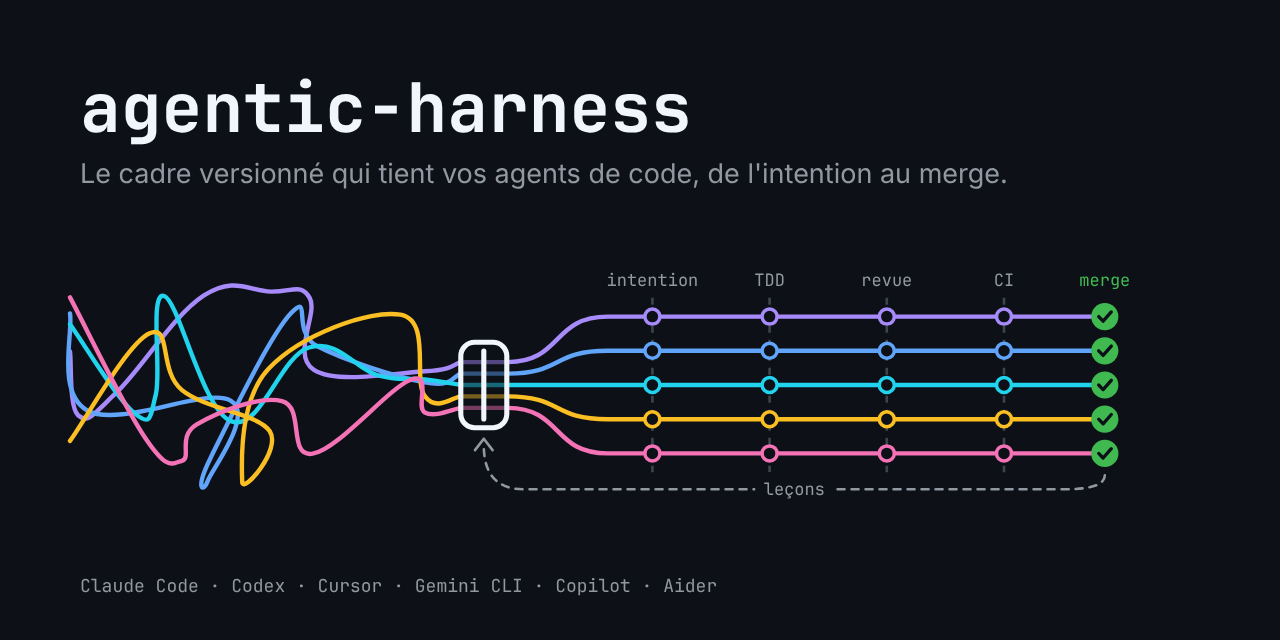
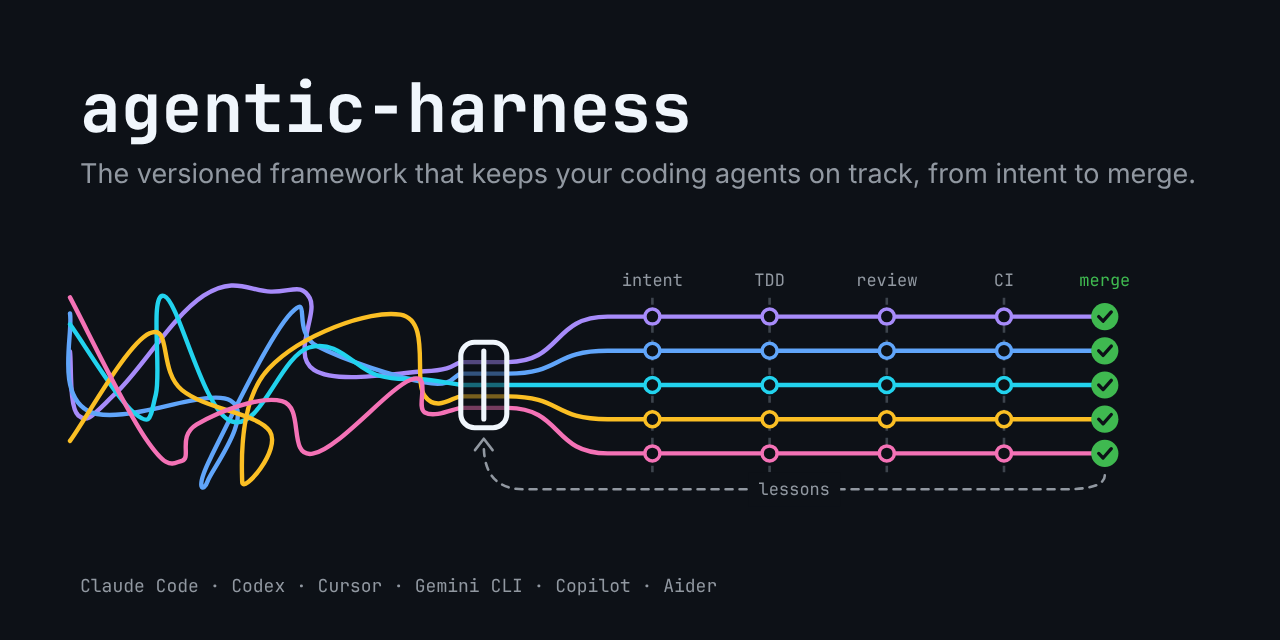
Identité du dépôt : description et topics obligatoires, visuels en anglais
La règle ne couvrait que les images ; un dépôt se reconnaît aussi à sa description et à ses topics.

- CONVENTIONS §Identité du dépôt (ex « Identité visuelle ») : description (une phrase), topics (5 à 10,
  format GitHub sourcé), bannière, social preview ; texte des images en anglais. Relayé dans STEWARDS §2,
  l'agent doc-steward, ADOPTION et le README.
- repo-settings.py : identity_gaps() avertit sans bloquer (description absente ou restée celle du
  gabarit, topics absents ou mal formés) ; la description du gabarit n'est plus envoyée à GitHub.
- check-framework.py : le cadre contrôle sa propre description et ses topics.
- Bannière et social preview : accroche et jalons en anglais.

Tests vus rouges puis verts (test_repo_settings, test_check_framework).

Claude-Session: https://claude.ai/code/session_014QH2CHDMpD5XhpEofb1Z2H

diff --git a/scripts/repo-settings.py b/scripts/repo-settings.py
@@ -5,8 +5,10 @@ Une session cloud ne peut pas modifier les réglages d'un dépôt (LESSONS L56) 
 merge, le workflow repo-settings.yml lance ce script avec un jeton d'administration (secret REPO_ADMIN_TOKEN).
 
 Sections (toutes facultatives ; une section absente n'est pas touchée) :
-  "repository" : champs de PATCH /repos/{owner}/{repo} listés dans REPO_FIELDS ;
+  "repository" : champs de PATCH /repos/{owner}/{repo} listés dans REPO_FIELDS ; une description restée celle du
+                 gabarit (`<…>`) n'est pas envoyée ;
   "topics"     : liste complète des topics (remplace l'existante) ;
+  Description ou topics manquants ou non valides : avertissement, sans bloquer (CONVENTIONS.md §Identité du dépôt).
   "rulesets"   : rulesets gérés, identifiés par leur `name` (créés ou mis à jour ; un ruleset absent du fichier n'est
                  jamais supprimé : on le retire à la main, c'est voulu).
 Usage : repo-settings.py --repo owner/nom [--file .github/repo-settings.json] [--apply]
@@ -16,6 +18,7 @@ Jeton : variable GH_TOKEN (fine-grained, « Administration: write » sur le dép
 import argparse
 import json
 import os
+import re
 import sys
 import urllib.error
 import urllib.request
@@ -26,6 +29,32 @@ REPO_FIELDS = {"description", "homepage", "has_issues", "has_projects", "has_wik
                "squash_merge_commit_title", "squash_merge_commit_message"}
 RULESET_KEYS = ("name", "target", "enforcement", "conditions", "rules", "bypass_actors")
 API = "https://api.github.com"
+# Règles de GitHub pour un topic : minuscules, chiffres, tirets, 50 caractères au plus, 20 topics au plus par dépôt
+# (https://docs.github.com/en/repositories/managing-your-repositorys-settings-and-features/customizing-your-repository/classifying-your-repository-with-topics)
+TOPIC = re.compile(r"^[a-z0-9][a-z0-9-]{0,49}$")
+MAX_TOPICS = 20
+
+
+def _placeholder(text):
+    """Vrai pour une description vide ou restée celle du gabarit (`<une phrase : …>`)."""
+    text = (text or "").strip()
+    return not text or (text.startswith("<") and text.endswith(">"))
+
+
+def identity_gaps(desired):
+    """Ce qui manque pour que le dépôt dise ce qu'il est (CONVENTIONS.md §Identité du dépôt) ; fonction pure."""
+    gaps = []
+    if _placeholder((desired.get("repository") or {}).get("description")):
+        gaps.append("description absente ou restée celle du gabarit : une phrase, ce que fait le projet et pour qui")
+    topics = desired.get("topics") or []
+    bad = [t for t in topics if not isinstance(t, str) or not TOPIC.match(t)]
+    if not topics:
+        gaps.append("topics absents : 5 à 10 mots-clés (domaine, technologie, usage)")
+    elif bad:
+        gaps.append(f"topics non valides {bad} : minuscules, chiffres et tirets, 50 caractères au plus")
+    elif len(set(topics)) > MAX_TOPICS:
+        gaps.append(f"topics trop nombreux ({len(set(topics))}) : {MAX_TOPICS} au plus")
+    return gaps
 
 
 def _covers(actual, wanted):
@@ -62,7 +91,8 @@ def plan(desired, current):
         unknown = sorted(set(repo) - REPO_FIELDS)
         if unknown:
             raise ValueError(f"champs de dépôt non gérés : {unknown} (permis : {sorted(REPO_FIELDS)})")
-        fields = {k: v for k, v in repo.items() if current.get("repository", {}).get(k) != v}
+        fields = {k: v for k, v in repo.items() if current.get("repository", {}).get(k) != v
+                  and not (k == "description" and _placeholder(v))}  # le texte du gabarit ne part jamais sur GitHub
         if fields:
             actions.append({"op": "patch-repo", "fields": fields})
     if desired.get("topics") is not None:
@@ -141,6 +171,8 @@ def main():
         raise SystemExit("✘ GH_TOKEN absent (secret REPO_ADMIN_TOKEN : jeton « Administration: write » sur le dépôt)")
     with open(a.file, encoding="utf-8") as f:
         desired = json.load(f)
+    for gap in identity_gaps(desired):
+        print(f"::warning file={a.file}::{gap}")
     http = github(token)
     actions = plan(desired, read_current(a.repo, http))
     for act in actions:

diff --git a/scripts/tests/test_repo_settings.py b/scripts/tests/test_repo_settings.py
@@ -29,6 +29,32 @@ class PlanTests(unittest.TestCase):
         actions = rs.plan({"topics": ["claude-code", "agentic"]}, {"repository": {}, "topics": ["old"], "rulesets": []})
         self.assertEqual(actions, [{"op": "put-topics", "names": ["agentic", "claude-code"]}])
 
+    def test_placeholder_description_is_never_sent(self):
+        desired = {"repository": {"description": "<une phrase : ce que fait le projet, pour qui>", "has_wiki": False}}
+        actions = rs.plan(desired, {"repository": {"description": "", "has_wiki": True}, "topics": [], "rulesets": []})
+        self.assertEqual(actions, [{"op": "patch-repo", "fields": {"has_wiki": False}}])
+
+    def test_identity_gaps_none_when_described_and_tagged(self):
+        self.assertEqual(rs.identity_gaps({"repository": {"description": "Un cadre."}, "topics": ["ai-agents", "tdd"]}), [])
+
+    def test_identity_gaps_on_missing_or_placeholder_description(self):
+        for repo in ({}, {"description": ""}, {"description": "<une phrase>"}):
+            gaps = rs.identity_gaps({"repository": repo, "topics": ["tdd"]})
+            self.assertEqual(len(gaps), 1, repo)
+            self.assertIn("description", gaps[0])
+
+    def test_identity_gaps_on_empty_or_invalid_topics(self):
+        ok = {"description": "Un cadre."}
+        self.assertIn("topics", rs.identity_gaps({"repository": ok, "topics": []})[0])
+        self.assertIn("topics", rs.identity_gaps({"repository": ok})[0])
+        for bad in ("Claude Code", "CI", "-tdd", "x" * 51):
+            self.assertIn(bad, rs.identity_gaps({"repository": ok, "topics": ["tdd", bad]})[0])
+        self.assertIn("20", rs.identity_gaps({"repository": ok, "topics": [f"t{i}" for i in range(21)]})[0])
+
+    def test_shipped_settings_have_description_and_topics(self):
+        shipped = json.loads((ROOT / ".github/repo-settings.json").read_text(encoding="utf-8"))
+        self.assertEqual(rs.identity_gaps(shipped), [])
+
     def test_ruleset_created_then_updated_by_name(self):
         created = rs.plan({"rulesets": [RULESET]}, {"repository": {}, "topics": [], "rulesets": []})
         self.assertEqual([a["op"] for a in created], ["create-ruleset"])

diff --git a/scripts/check-framework.py b/scripts/check-framework.py
@@ -9,6 +9,7 @@
 Usage : check-framework.py [--root <dépôt>]   (sort en 1 au moindre écart, liste tous les écarts)
 """
 import argparse
+import importlib.util
 import json
 import pathlib
 import re
@@ -119,7 +120,13 @@ def check(root):
                         errors.append(f".github/repo-settings.json : contrôle requis « {chk['context']} » absent des "
                                       f"jobs de .github/workflows ({sorted(job_names)})")
 
-    # Identité visuelle du dépôt (CONVENTIONS.md §Identité visuelle) : le cadre s'applique sa propre règle
+    # Identité du dépôt (CONVENTIONS.md §Identité du dépôt) : le cadre s'applique sa propre règle
+    if settings.is_file():
+        spec = importlib.util.spec_from_file_location("repo_settings", root / "scripts/repo-settings.py")
+        rs = importlib.util.module_from_spec(spec)
+        spec.loader.exec_module(rs)
+        errors += [f".github/repo-settings.json : {gap}"
+                   for gap in rs.identity_gaps(json.loads(settings.read_text(encoding="utf-8")))]
     banner, social = root / "docs/assets/banner.svg", root / "docs/assets/social-preview.png"
     if not banner.is_file():
         errors.append("docs/assets/banner.svg : bannière du README introuvable")

diff --git a/scripts/tests/test_check_framework.py b/scripts/tests/test_check_framework.py
@@ -50,6 +50,12 @@ class CheckFrameworkTests(unittest.TestCase):
         p.write_bytes(bytes(data))
         self.assertIn("1280×640", run(self.tmp).stdout)
 
+    def test_repository_needs_description_and_topics(self):
+        p = self.tmp / ".github/repo-settings.json"
+        p.write_text(p.read_text().replace('"topics": [', '"topics_": ['))
+        out = run(self.tmp).stdout
+        self.assertIn("topics", out)
+
     def test_agent_name_must_match_file(self):
         p = self.tmp / "plugins/harness/agents/issue-steward.md"
         p.write_text(p.read_text().replace("name: issue-steward", "name: autre"))

diff --git a/docs/CONVENTIONS.md b/docs/CONVENTIONS.md
@@ -117,9 +117,20 @@ les sections `### Ledger` des PR par le steward, ou rédigées depuis leurs desc
   accepté ne se réécrit pas : il est remplacé par un autre.
 - Les instructions personnelles d'un opérateur vont dans un `CLAUDE.local.md` non versionné, pas dans le dépôt.
 
-## Identité visuelle du dépôt
-Tout dépôt qui suit le cadre porte **deux images** qui disent son intention au premier regard (ce que le projet fait
-et pour qui, pas un logo décoratif ni une capture) :
+## Identité du dépôt
+Tout dépôt qui suit le cadre dit ce qu'il est sans qu'on ouvre un fichier : une **description**, des **topics**, une
+**bannière** et une **social preview**.
+
+| Élément | Où il vit | Règle |
+|---|---|---|
+| **Description** | `.github/repo-settings.json` → `repository.description` | une phrase : ce que fait le projet, pour qui ; pas le texte du gabarit, pas une liste de fonctionnalités ; tenue vraie quand le périmètre change |
+| **Topics** | `.github/repo-settings.json` → `topics` | 5 à 10 mots-clés qu'un visiteur chercherait : domaine, technologie, usage ; minuscules, chiffres et tirets, 50 caractères au plus, 20 topics au plus ([doc GitHub](https://docs.github.com/en/repositories/managing-your-repositorys-settings-and-features/customizing-your-repository/classifying-your-repository-with-topics)) ; préférer un topic déjà répandu à un mot inventé |
+
+Les deux se modifient par PR et s'appliquent au merge ([ADOPTION](ADOPTION.md) §Réglages du dépôt « as code ») ;
+`repo-settings.py` avertit s'ils manquent ou sont mal formés, et n'envoie jamais la description du gabarit.
+
+Les **deux images** disent l'intention au premier regard (ce que le projet fait et pour qui, pas un logo décoratif
+ni une capture) :
 
 | Image | Fichier | Format | Où elle sert |
 |---|---|---|---|
@@ -127,13 +138,14 @@ et pour qui, pas un logo décoratif ni une capture) :
 | **Social preview** | `docs/assets/social-preview.png`, sa source à côté (`.svg` ou autre) | PNG **1280×640**, moins de 1 Mo, l'essentiel à plus de 40 px des bords | aperçu du lien du dépôt (réseaux, messageries) |
 
 - Les deux partagent le même motif et le même nom de projet ; une phrase d'intention au plus, pas de liste de
-  fonctionnalités. Aucun secret, aucune donnée personnelle, aucune marque tierce.
+  fonctionnalités. Leur texte est en **anglais** (un aperçu de lien circule hors du public du projet), sauf projet
+  dont le public est seulement francophone. Aucun secret, aucune donnée personnelle, aucune marque tierce.
 - La social preview **se dépose à la main** : dépôt → Settings → General → Social preview
   ([doc GitHub](https://docs.github.com/en/repositories/managing-your-repositorys-settings-and-features/customizing-your-repository/customizing-your-repositorys-social-media-preview),
   qui donne aussi la taille et le poids). C'est un réglage du dépôt : l'agent prépare le fichier et le signale,
   l'opérateur le dépose (ESSENTIEL §Garde-fous). `repo-settings.py` ne le couvre pas.
-- Elles changent quand l'intention du projet change, pas à chaque version. Le doc steward vérifie leur présence
-  ([STEWARDS](STEWARDS.md) §2) ; images absentes → une issue.
+- Elles changent quand l'intention du projet change, pas à chaque version. Le doc steward vérifie les quatre
+  éléments ([STEWARDS](STEWARDS.md) §2) ; absent ou périmé → une issue.
 
 ## Secrets
 Aucun secret dans le dépôt. Secrets de CI dans les secrets GitHub ; en local, dans des fichiers de configuration

diff --git a/README.md b/README.md
@@ -1,6 +1,6 @@
 # agentic-harness
 
-![agentic-harness : des trajectoires d'agents emmêlées passent dans la boucle du harnais et ressortent en voies tenues, jalon après jalon (intention, TDD, revue adversariale, CI), jusqu'au merge ; les leçons reviennent au harnais](docs/assets/banner.svg)
+![agentic-harness, « the versioned framework that keeps your coding agents on track, from intent to merge » : des trajectoires d'agents emmêlées passent dans la boucle du harnais et ressortent en voies tenues, jalon après jalon (intention, TDD, revue adversariale, CI), jusqu'au merge ; les leçons reviennent au harnais](docs/assets/banner.svg)
 
 > Un harnais versionné et ouvert pour développer avec des agents de code : intention et TDD, issues → lots → PR,
 > revues adversariales, conformité branchable, stewards, FinOps et tableau de bord du flux. Pour tout dépôt GitHub,
@@ -77,7 +77,7 @@ un client iOS).
 | [`docs/COMPLIANCE.md`](docs/COMPLIANCE.md) | Relecteurs de conformité : catalogue, trois modes de branchement |
 | [`docs/CI-BUDGET.md`](docs/CI-BUDGET.md) | Minutes de CI, sécurité (SAST, SCA, secrets), variables, volume agentique |
 | [`docs/LESSONS.md`](docs/LESSONS.md) | Leçons par portée, sources citées ; comment en proposer |
-| [`docs/CONVENTIONS.md`](docs/CONVENTIONS.md), [`docs/BRANCHING-RELEASE.md`](docs/BRANCHING-RELEASE.md), [`docs/MAC-HANDOFF.md`](docs/MAC-HANDOFF.md) | Commits et PR, identité visuelle du dépôt, branches et versions, partage cloud / poste local |
+| [`docs/CONVENTIONS.md`](docs/CONVENTIONS.md), [`docs/BRANCHING-RELEASE.md`](docs/BRANCHING-RELEASE.md), [`docs/MAC-HANDOFF.md`](docs/MAC-HANDOFF.md) | Commits et PR, identité du dépôt (description, topics, bannière, social preview), branches et versions, partage cloud / poste local |
 | [`docs/adr/`](docs/adr/README.md) | Décisions du cadre |
 | [`docs/assets/`](docs/assets) | Identité visuelle : bannière du README (`banner.svg`), social preview (`social-preview.svg` → `.png`, 1280×640) |
 | [`docs/diagrams/`](docs/diagrams) | Schémas : source `.json`, scène `.excalidraw` (modifiable sur excalidraw.com), image `.svg` |
@@ -89,7 +89,7 @@ un client iOS).
 ## Qualité du harnais lui-même
 
 Un job de CI (`ci.yml`), chaque étape lancée même si la précédente échoue : cohérence du cadre (skills, agents,
-manifeste, labels, nommage, contrôles requis, bannière et social preview), tests (vendorisation, hooks, tableau de bord, conformité, réglages,
+manifeste, labels, nommage, contrôles requis, description, topics, bannière et social preview), tests (vendorisation, hooks, tableau de bord, conformité, réglages,
 schémas), ShellCheck, versions, actionlint, zizmor, markdownlint, gitleaks. En local :
 ```bash
 python3 scripts/check-framework.py && python3 -m unittest discover -s scripts/tests -p 'test_*.py' \

diff --git a/docs/ADOPTION.md b/docs/ADOPTION.md
@@ -53,9 +53,10 @@ Prérequis : `bash`, `git`, `python3` ; accès en lecture à `francoisgn/agentic
    - `.github/workflows/harness.yml` : branche de `push`, `flow` (modèle A ou vide), jobs `docs`, `security` et `review`
      à activer seulement si le projet n'a pas déjà l'équivalent ; le job `flow` (tableau de bord) est actif d'office.
    - `.harness/config.json` → `compliance` : référentiels dont les relecteurs sont lancés ([COMPLIANCE](COMPLIANCE.md)). Supprimer les workflows qu'il remplace (ex. `branch-flow.yml`).
-   - **Identité visuelle** ([CONVENTIONS](CONVENTIONS.md) §Identité visuelle du dépôt) : une bannière
+   - **Identité du dépôt** ([CONVENTIONS](CONVENTIONS.md) §Identité du dépôt) : dans `.github/repo-settings.json`,
+     remplacer la description du gabarit par une phrase et remplir `topics` (5 à 10 mots-clés) ; une bannière
      `docs/assets/banner.svg` en tête du `README.md` et une social preview `docs/assets/social-preview.png`
-     (1280×640). Absentes : une issue, elles peuvent suivre l'adoption.
+     (1280×640). Images absentes : une issue, elles peuvent suivre l'adoption.
 5. **Vérifier** : `../agentic-harness/scripts/harness-sync.sh --target . --check` sort en 0 ; `git diff --stat` ne
    montre que l'attendu ; lancer une session Claude et constater le message « Cadre agentic-harness » au démarrage.
 6. **Commit unique**, puis PR en brouillon :
@@ -181,8 +182,8 @@ script `.harness/scripts/repo-settings.py`) l'applique au merge :
 
 | Section | Effet |
 |---|---|
-| `repository` | Description, site, fonctions (wiki, discussions), politique de merge, suppression des branches mergées |
-| `topics` | Liste complète des topics |
+| `repository` | Description (obligatoire, [CONVENTIONS](CONVENTIONS.md) §Identité du dépôt ; celle du gabarit n'est jamais envoyée), site, fonctions (wiki, discussions), politique de merge, suppression des branches mergées |
+| `topics` | Liste complète des topics (5 à 10 attendus ; avertissement s'ils manquent ou sont mal formés) |
 | `rulesets` | Rulesets gérés par nom (créés ou mis à jour, jamais supprimés automatiquement) : protection de la branche par défaut, contrôles requis |
 
 - **Une fois, par le propriétaire** : créer un jeton fine-grained limité au dépôt, « Administration: read and write »,

diff --git a/CHANGELOG.md b/CHANGELOG.md
@@ -5,14 +5,17 @@ faire en passant à cette version.
 
 ## Non publié
 
-- **Identité visuelle du dépôt** (CONVENTIONS §Identité visuelle du dépôt) : tout dépôt qui suit le cadre porte une
-  bannière en tête du README (`docs/assets/banner.svg`) et une social preview (`docs/assets/social-preview.png`,
-  1280×640, déposée à la main par l'opérateur). Le doc steward en vérifie la présence (STEWARDS §2, agent
-  `doc-steward`), ADOPTION le prévoit. Le cadre s'applique la règle : bannière et social preview ajoutées, contrôlées
-  par `check-framework.py`.
+- **Identité du dépôt** (CONVENTIONS §Identité du dépôt) : tout dépôt qui suit le cadre porte une description (une
+  phrase), des topics (5 à 10), une bannière en tête du README (`docs/assets/banner.svg`) et une social preview
+  (`docs/assets/social-preview.png`, 1280×640, texte en anglais, déposée à la main par l'opérateur). Le doc steward
+  vérifie les quatre (STEWARDS §2, agent `doc-steward`), ADOPTION le prévoit.
+- `repo-settings.py` : avertit (sans bloquer) si la description ou les topics manquent ou sont mal formés ; la
+  description restée celle du gabarit (`<…>`) n'est plus envoyée à GitHub.
+- Le cadre s'applique la règle : bannière et social preview ajoutées ; `check-framework.py` contrôle description,
+  topics et images.
 
-Action : ajouter les deux images au projet (une issue suffit pour commencer) ; l'opérateur dépose la social preview
-dans les réglages du dépôt.
+Action : remplir la description et les topics dans `.github/repo-settings.json`, ajouter les deux images (une issue
+suffit pour commencer) ; l'opérateur dépose la social preview dans les réglages du dépôt.
 
 ## 0.3.0 — 2026-11-09
 

diff --git a/plugins/harness/agents/doc-steward.md b/plugins/harness/agents/doc-steward.md
@@ -16,9 +16,10 @@ Identifiant : celui donné en première ligne du prompt (`<projet>.<orchestrateu
 3. **À jour** : README (contenu, état), index des ADR, plan des lots, CHANGELOG : ce qui manque y entre.
 4. **Lisible** : TL;DR en tête des docs longs, titres stables, tableaux non cassés (`|` échappé : L07), un fichier un
    rôle (L10). Un flux ou une architecture qui se lit mal en prose → un schéma Mermaid court.
-5. **Identité visuelle** (CONVENTIONS §Identité visuelle du dépôt) : `docs/assets/banner.*` affichée en tête du README,
-   `docs/assets/social-preview.png` en 1280×640 avec sa source. Absente ou qui ne dit plus l'intention du projet → une
-   issue ; ne jamais toucher aux réglages du dépôt (l'opérateur dépose la social preview).
+5. **Identité du dépôt** (CONVENTIONS §Identité du dépôt) : description (une phrase, pas celle du gabarit) et topics
+   (5 à 10, minuscules et tirets) dans `.github/repo-settings.json` : les corriger dans la PR de docs ;
+   `docs/assets/banner.*` affichée en tête du README, `docs/assets/social-preview.png` en 1280×640 avec sa source :
+   absente ou qui ne dit plus l'intention du projet → une issue ; ne jamais toucher aux réglages du dépôt (l'opérateur dépose la social preview).
 6. Livrer : une branche `docs/<date>`, un commit, une PR **en brouillon**, `Direct-PR: entretien des docs` ou
    `Refs #n`. Ne jamais toucher aux copies vendorisées `.harness/` (elles appartiennent au cadre).
 

diff --git a/docs/STEWARDS.md b/docs/STEWARDS.md
@@ -34,9 +34,9 @@ Objectif : qu'un agent de lot puisse prendre une issue **sans poser de question*
   un flux ou une architecture se décrit mieux en image (Mermaid dans le Markdown : rendu par GitHub, versionné, relu
   comme du code).
 - Tient à jour les vues d'ensemble : README (contenu, état), plan des lots, index des ADR.
-- Vérifie l'identité visuelle ([CONVENTIONS](CONVENTIONS.md) §Identité visuelle du dépôt) : bannière affichée en tête
-  du README, social preview versionnée (1280×640) et toujours fidèle à l'intention du projet ; absente ou périmée →
-  une issue (le dépôt de la social preview dans les réglages revient à l'opérateur).
+- Vérifie l'identité du dépôt ([CONVENTIONS](CONVENTIONS.md) §Identité du dépôt) : description et topics renseignés
+  dans `.github/repo-settings.json`, bannière affichée en tête du README, social preview versionnée (1280×640), le
+  tout fidèle à l'intention du projet ; absent ou périmé → une issue, ou la PR de docs pour la description et les topics (le dépôt de la social preview dans les réglages revient à l'opérateur).
 - Si le projet tient un registre ([CONVENTIONS](CONVENTIONS.md) §Registre) : après un lot de merges, lance la commande
   de repli du projet (`.harness/config.json` → `ledger.fold_command`), ouvre **une** PR de docs qui ne touche que les
   fichiers du registre et que le script reproduit, signale les entrées mal formées sur leur PR, puis marque les PR
